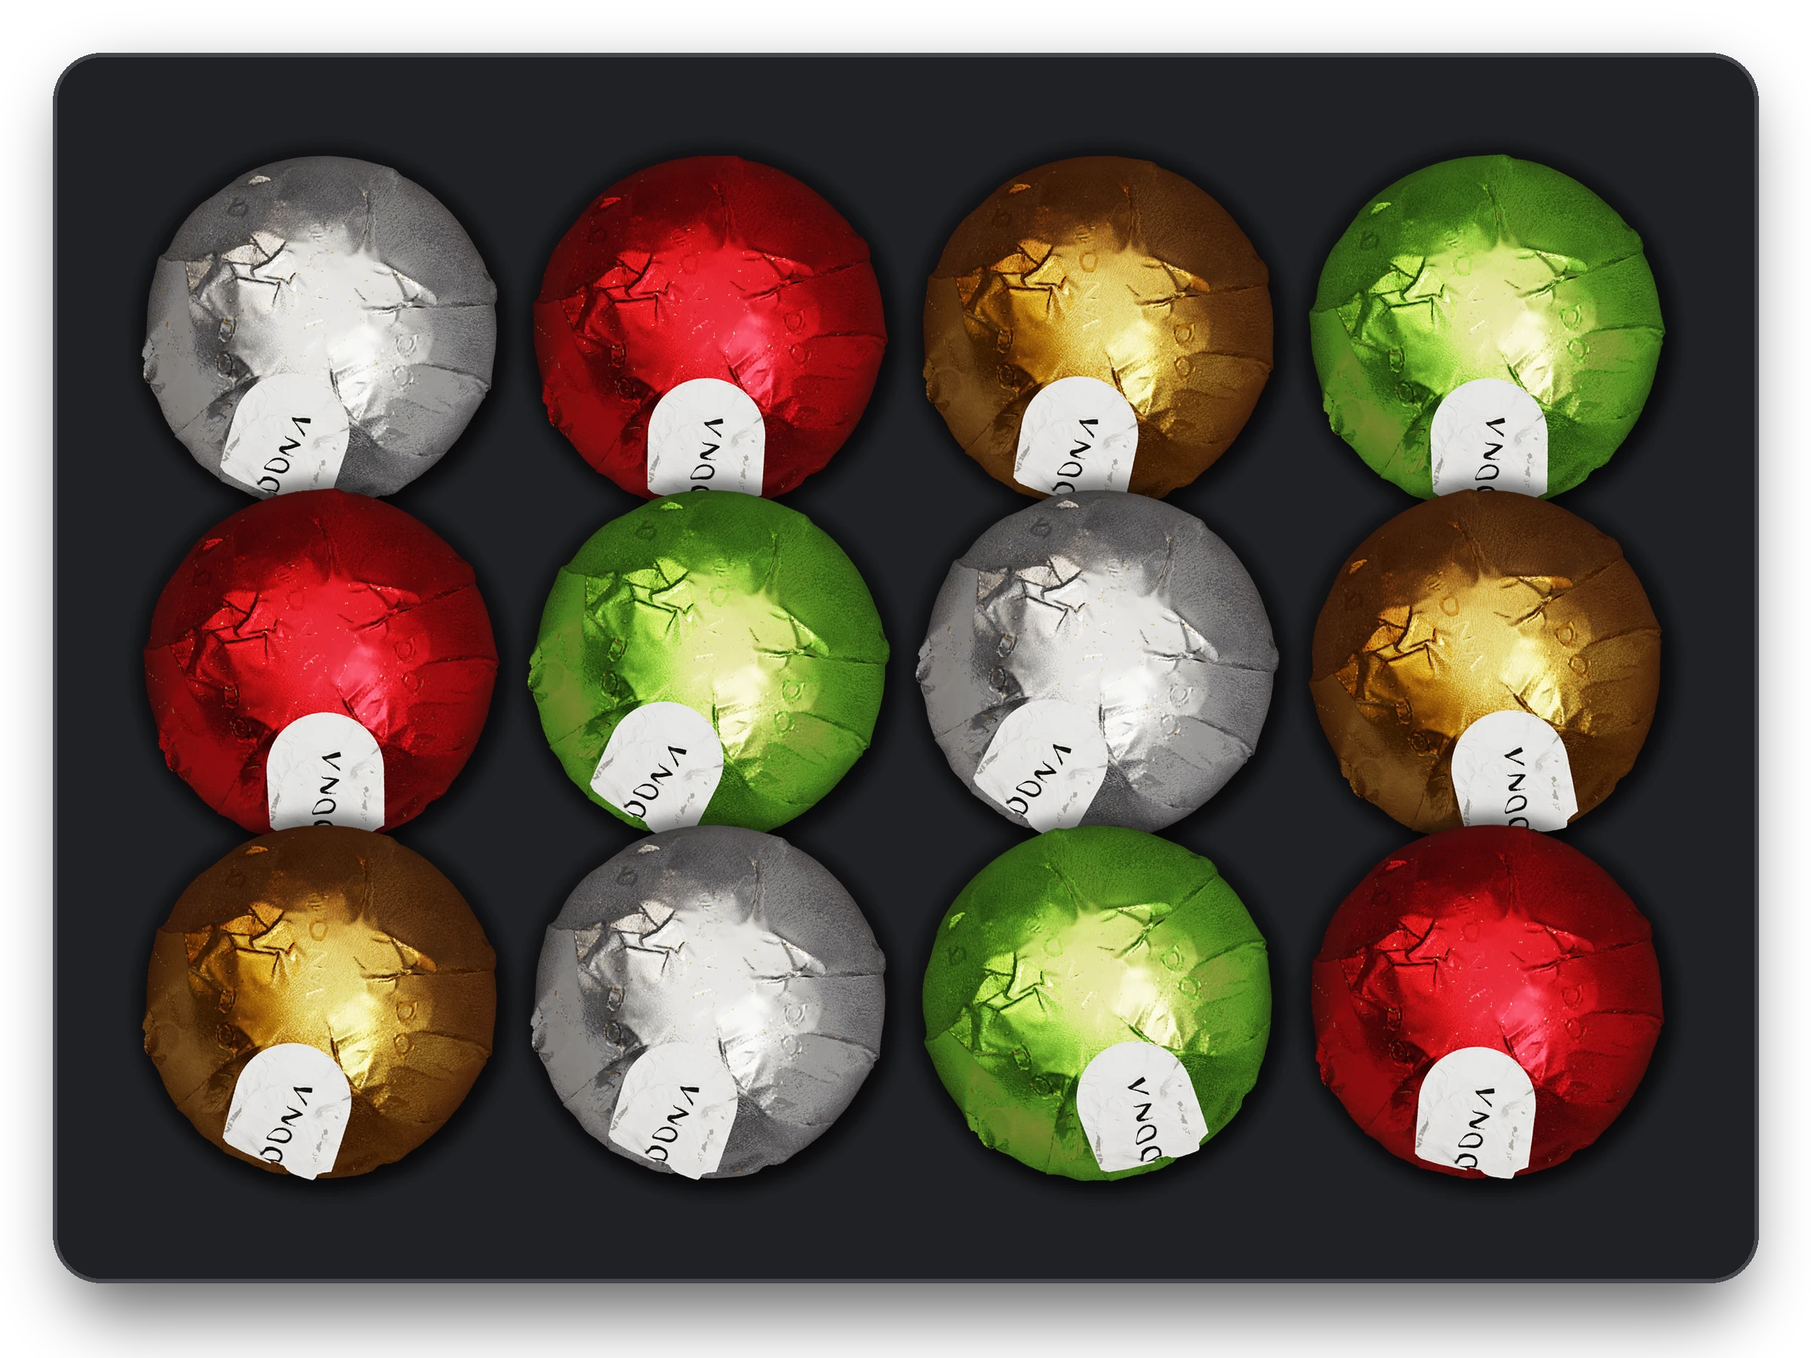
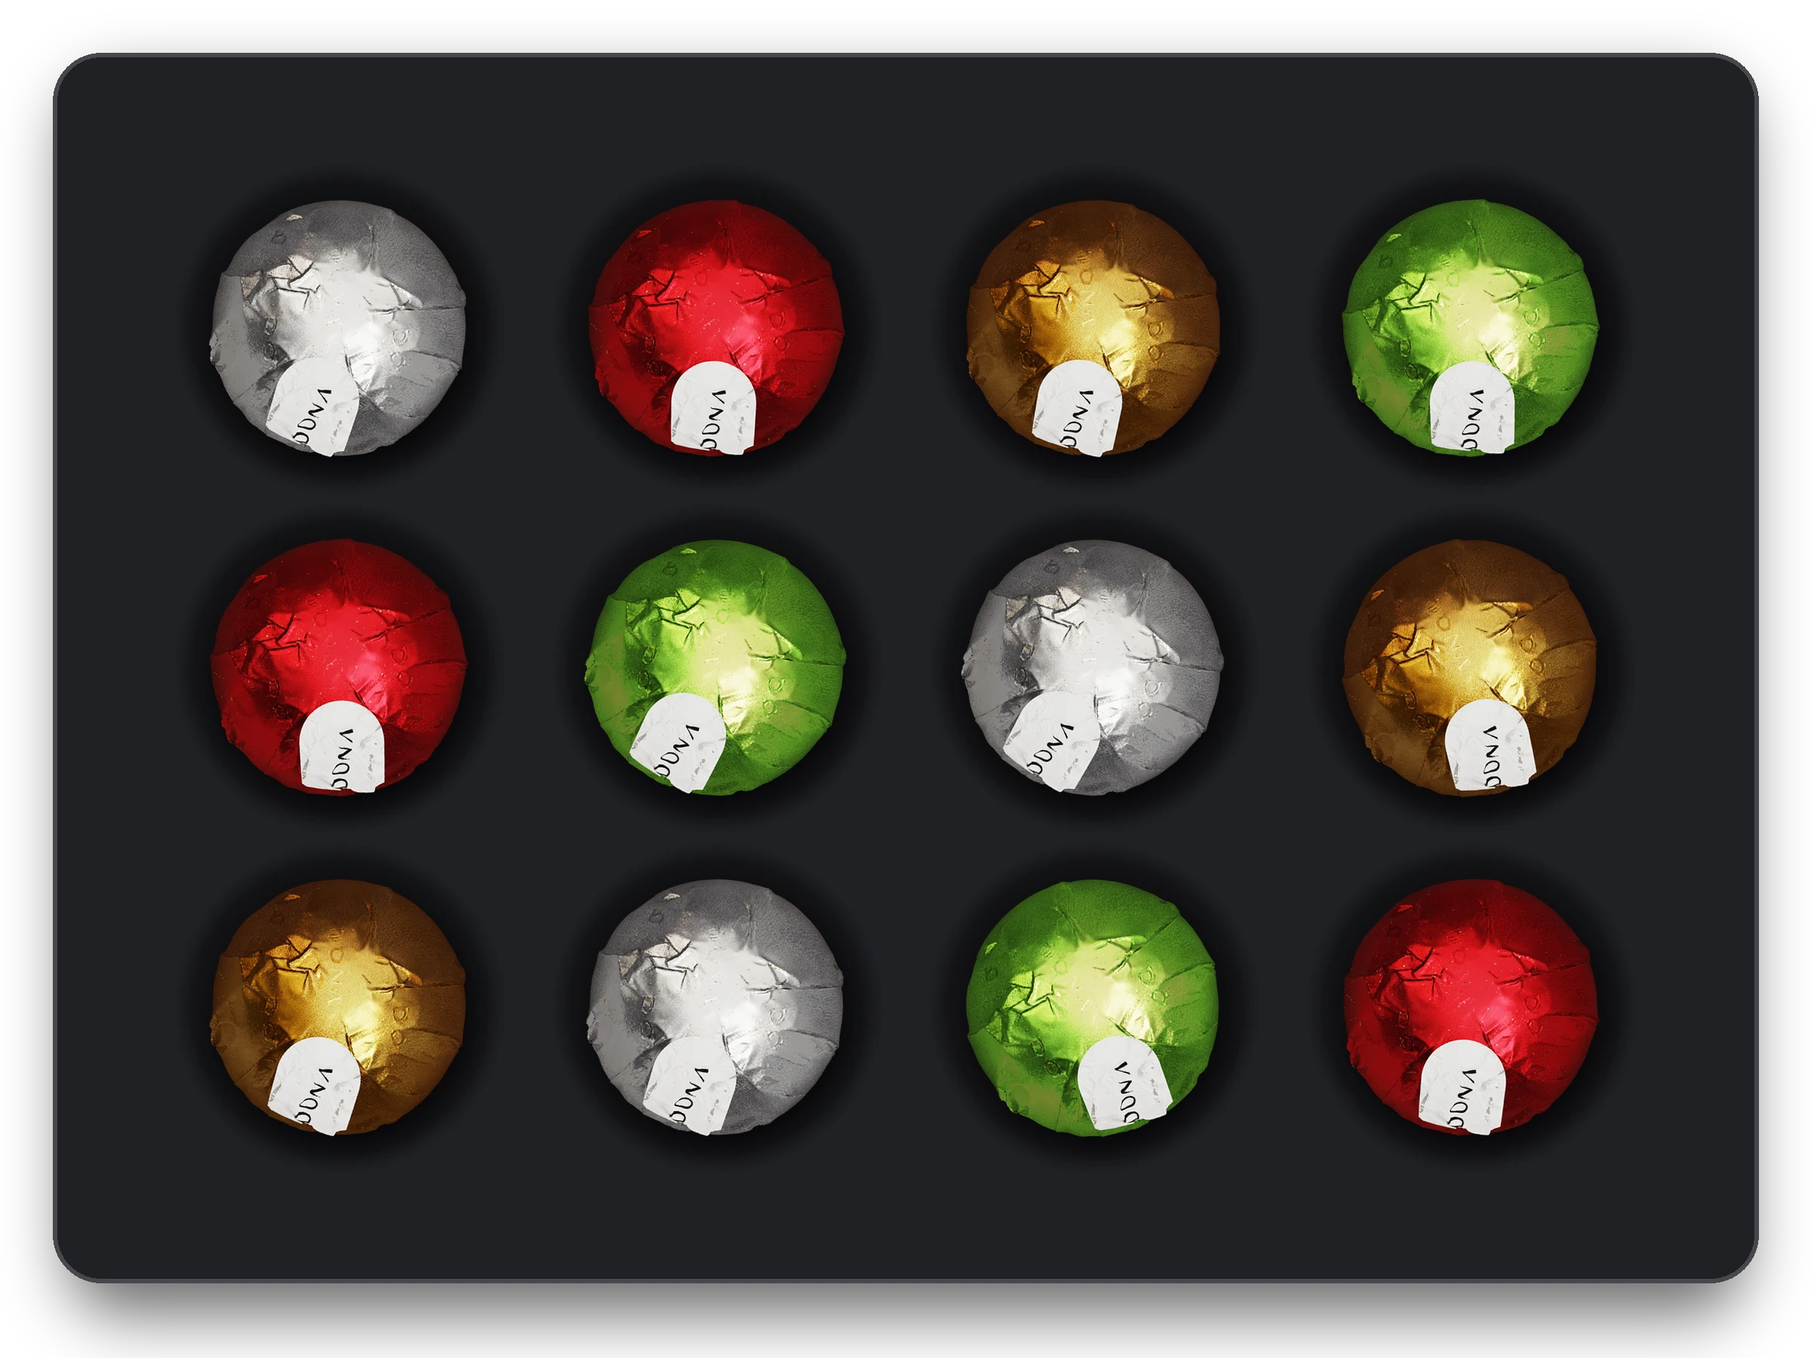
HE box with spacing, static candy stills at half size, tight LS box, closed 3D box in cart, quiet magnet click
Claude-Session: https://claude.ai/code/session_016Qy7A3d25X7EVsrP8gEGPN

diff --git a/high-end.html b/high-end.html
@@ -29,7 +29,7 @@
     <p class="sub" data-en="We created a box in which you feel every chocolate before you taste it." data-uz="Biz shunday quti yaratdik — unda har bir konfetni tatib ko‘rishingizdan oldin his qilasiz.">Мы создали коробку, в которой вы ощутите каждую конфету ещё до того, как её попробуете.</p>
     <p class="sub" data-en="We use physics: magnets hold every chocolate in its place, so that it reaches your table exactly as we first imagined it." data-uz="Biz fizikadan foydalanamiz: magnitlar har bir konfetni o‘z joyida ushlab turadi — u dasturxoningizga biz o‘ylagandek yetib boradi.">Мы используем физику: магниты удерживают каждую конфету на своём месте, чтобы она добралась до вашего стола именно такой, какой мы её задумали.</p>
    </div>
-   <div class="vis rv"><div class="magnet"><i></i><i></i><i></i><img src="/media/top-chamoq.webp?v=3" alt="" loading="lazy"></div></div>
+   <div class="vis rv"><div class="magnet"><i></i><i></i><i></i><img src="/media/top-chamoq.webp?v=4" alt="" loading="lazy"></div></div>
   </div>
  </section>
 
@@ -92,7 +92,7 @@ $('#candies').innerHTML=HE.map((c,i)=>`<article class="candy" id="${c.k}" style=
   </div>
  </div>
  <div class="views rv">
-  <div class="vstage"><div class="spin" data-k="${c.k}" data-size="l"></div><div class="cut3d hide" data-k="${c.k}"><img src="/media/cut-${c.k}.webp?v=3" alt="${c.name} — разрез" loading="lazy" decoding="async"></div></div>
+  <div class="vstage"><div class="spin"><img src="/media/still-${c.k}.webp?v=4" alt="${c.name}" loading="lazy" decoding="async"></div><div class="cut3d hide" data-k="${c.k}"><img src="/media/cut-${c.k}.webp?v=4" alt="${c.name} — разрез" loading="lazy" decoding="async"></div></div>
   <div class="vtabs" role="group" aria-label="${c.name}"><button type="button" data-v="foil" aria-pressed="true" data-en="In foil" data-uz="Folgada">В фольге</button><button type="button" data-v="cut" aria-pressed="false" data-en="Cut" data-uz="Kesim">В разрезе</button></div>
  </div>
 </article>`).join('');
@@ -100,14 +100,18 @@ $$('.candy').forEach(a=>{
  const k=a.id,spin=a.querySelector('.spin'),cut=a.querySelector('.cut3d');
  const show=v=>{const isCut=v==='cut';spin.classList.toggle('hide',isCut);cut.classList.toggle('hide',!isCut);
   a.querySelectorAll('.vtabs button').forEach(b=>b.setAttribute('aria-pressed',b.dataset.v===v));
-  if(spin._video){isCut?spin._video.pause():spin._video.play().catch(()=>{})}};
+  };
  a.querySelectorAll('[data-v]').forEach(b=>b.addEventListener('click',()=>{show(b.dataset.v);if(b.closest('.ctext'))a.querySelector('.vstage').scrollIntoView({behavior:'smooth',block:'center'})}));
 });
 
 /* ---------- mini shaking box ---------- */
 const PAT=['macadamia','walnuts','chamoq','pistachio','walnuts','pistachio','macadamia','chamoq','chamoq','macadamia','pistachio','walnuts'];
-$('#minibox .grid').innerHTML=PAT.map(k=>`<div class="slot full"><img src="/media/top-${k}.webp?v=3" alt="" loading="lazy"></div>`).join('');
+$('#minibox .grid').innerHTML=PAT.map(k=>`<div class="slot full"><img src="/media/top-${k}.webp?v=4" alt="" loading="lazy"></div>`).join('');
 
+/* ---------- quiet magnet click ---------- */
+let AC,MB;const clack=(d=0)=>{try{AC=AC||new(window.AudioContext||window.webkitAudioContext)();AC.resume();
+ const go=()=>{if(!MB)return;const n=AC.createBufferSource(),g=AC.createGain();n.buffer=MB;g.gain.value=.35;n.connect(g);g.connect(AC.destination);n.start(AC.currentTime+d)};
+ if(MB)go();else fetch('/assets/snd-magnet.mp3').then(r=>r.arrayBuffer()).then(a=>AC.decodeAudioData(a)).then(b=>{MB=b;go()}).catch(()=>{})}catch(e){}};
 /* ---------- box builder ---------- */
 const SIZE=12,KEY='dona-builder2';
 let st={col:'black',box:Array(SIZE).fill(null),seq:[]};
@@ -115,14 +119,14 @@ try{const s=JSON.parse(localStorage.getItem(KEY)||'null');if(s&&Array.isArray(s.
 const save=()=>{try{localStorage.setItem(KEY,JSON.stringify(st))}catch(e){}};
 const grid=$('#grid'),hbox=$('#hbox'),lid=$('#lid');
 grid.innerHTML=Array.from({length:SIZE},(_,i)=>`<button type="button" class="slot" data-i="${i}"><span class="num">${i+1}</span></button>`).join('');
-$('#flav').innerHTML=HE.map(c=>`<button type="button" class="fl" data-k="${c.k}" style="--c:${c.ui}"><span class="n"></span><img src="/media/top-${c.k}.webp?v=3" alt="" loading="lazy"><b>${c.name}</b></button>`).join('');
+$('#flav').innerHTML=HE.map(c=>`<button type="button" class="fl" data-k="${c.k}" style="--c:${c.ui}"><span class="n"></span><img src="/media/top-${c.k}.webp?v=4" alt="" loading="lazy"><b>${c.name}</b></button>`).join('');
 function render(anim){
  hbox.className='hbox '+st.col;lid.className='boxlid '+st.col;
  $$('.seg button').forEach(b=>b.setAttribute('aria-pressed',b.dataset.col===st.col));
  $$('.slot',grid).forEach((s,i)=>{const k=st.box[i];s.classList.toggle('full',!!k);const c=HE.find(x=>x.k===k);
   s.setAttribute('aria-label',k?T('Убрать ','Remove ','Olib tashlash: ')+c.name:T('Пустая ячейка ','Empty place ','Bo‘sh joy ')+(i+1));
   const img=s.querySelector('img');
-  if(k){if(!img||img.dataset.k!==k){img&&img.remove();s.insertAdjacentHTML('beforeend',`<img src="/media/top-${k}.webp?v=3" alt="" data-k="${k}" style="transform:rotate(${((i*73)%40)-20}deg)">`);
+  if(k){if(!img||img.dataset.k!==k){img&&img.remove();s.insertAdjacentHTML('beforeend',`<img src="/media/top-${k}.webp?v=4" alt="" data-k="${k}" style="transform:rotate(${((i*73)%40)-20}deg)">`);
     if(anim===i&&!D.reduce)s.querySelector('img').animate([{transform:'translateY(-40%) scale(1.25)',opacity:0},{transform:`rotate(${((i*73)%40)-20}deg)`,opacity:1}],{duration:420,easing:'cubic-bezier(.22,1,.36,1)'})}}
   else img&&img.remove()});
  const n=st.box.filter(Boolean).length;
@@ -130,7 +134,7 @@ function render(anim){
  $$('.fl').forEach(f=>{const c=st.box.filter(k=>k===f.dataset.k).length,el=f.querySelector('.n');el.textContent=c;el.classList.toggle('on',c>0)});
  $('#b-add').disabled=n!==SIZE;$('#b-add').textContent=n===SIZE?T('Добавить коробку в корзину','Add box to cart','Qutini savatga qo‘shish'):T(`Заполните коробку: ${n} из ${SIZE}`,`Fill the box: ${n} of ${SIZE}`,`Qutini to‘ldiring: ${SIZE} tadan ${n}`);save()}
 function add(k){const i=st.box.findIndex(x=>!x);if(i<0){$('#count').animate([{transform:'translateX(0)'},{transform:'translateX(-6px)'},{transform:'translateX(6px)'},{transform:'translateX(0)'}],{duration:260});return}
- st.box[i]=k;st.seq.push({a:'add',k,s:i});render(i)}
+ st.box[i]=k;st.seq.push({a:'add',k,s:i});render(i);clack(.26)}
 $$('.fl').forEach(f=>f.onclick=()=>add(f.dataset.k));
 $$('.slot',grid).forEach(s=>s.onclick=()=>{const i=+s.dataset.i;if(!st.box[i])return;st.seq.push({a:'del',k:st.box[i],s:i});st.box[i]=null;render()});
 $$('.seg button').forEach(b=>b.onclick=()=>{st.col=b.dataset.col;render()});

diff --git a/cart.html b/cart.html
@@ -49,10 +49,10 @@ const D=window.DONA,{$,$$,HE,T,BOXC,cart}=D;
 const NM=Object.fromEntries(HE.map(c=>[c.k,c.name]));
 try{const s=JSON.parse(localStorage.getItem('dona-contact2')||'{}');$('#c-name').value=s.name||'';$('#c-ct').value=s.ct||'';$('#c-addr').value=s.addr||''}catch(e){}
 const WALL={white:['#e9e3d8','#d9d2c4','#cfc8b8'],black:['#2a2c31','#1c1d20','#141518'],red:['#d8503c','#c93a27','#a82d1d']};
-function box3d(it){const w=WALL[it.col]||WALL.black,bg=it.col==='white'?'#f4efe7':it.col==='red'?'#c93a27':'#1c1d20';
- return `<div class="sc" data-3d><div class="cb" style="--bg:${bg};--w1:${w[0]};--w2:${w[1]};--w3:${w[2]}">
+function box3d(it){const w=WALL[it.col]||WALL.black,top=it.col==='white'?'#f4efe7':it.col==='red'?'#c93a27':'#1c1d20',ink=it.col==='white'?'#9a5a2c':it.col==='red'?'#fff4ea':'#d9a46c';
+ return `<div class="sc" data-3d><div class="cb" style="--bg:${top};--w1:${w[0]};--w2:${w[1]};--w3:${w[2]};--ink:${ink}">
   <div class="sh"></div>
-  <div class="fl2">${it.box.map((k,i)=>k?`<img src="/media/top-${k}.webp?v=3" alt="" style="transform:translateZ(3px) rotate(${((i*73)%40)-20}deg)">`:'<span></span>').join('')}</div>
+  <div class="lidtop ${it.col}"><div class="lm"></div><p>MOMENTS TO SHARE<br>FLAVORS TO REMEMBER</p></div>
   <div class="wl bk"></div><div class="wl fr"></div><div class="wl lf"></div><div class="wl rt"></div>
  </div><p class="hint3">${T('Потяните, чтобы повернуть','Drag to turn','Aylantirish uchun torting')}</p></div>`}
 function init3d(){document.querySelectorAll('[data-3d]').forEach(sc=>{const cb=sc.querySelector('.cb');if(sc._on)return;sc._on=1;
@@ -69,7 +69,7 @@ function draw(){
    return `<div class="citem he" data-id="${it.id}">${box3d(it)}
     <div><h3>HIGH-END · ${n}/12</h3>${n<12?`<p class="warn">${T('Коробка не заполнена: нужно ровно 12 конфет.','The box is not full: exactly 12 candies are needed.','Quti to‘lmagan: aynan 12 ta konfet kerak.')} <a class="link" href="/high-end#build">${T('Дополнить','Complete it','To‘ldirish')}</a></p>`:''}<p>${T('Коробка','Box','Quti')}: ${T(...col)}</p><p>${Object.entries(cnt).map(([k,v])=>NM[k]+' × '+v).join(', ')}</p>${it.name?`<p>${T('Письмо для','Letter for','Maktub')}: ${it.name.replace(/[<>&]/g,'')}</p>`:''}<button class="x" type="button" data-rm>${T('Убрать','Remove','Olib tashlash')}</button></div>
     <div class="qty"><button type="button" data-q="-1">−</button><span>${it.qty}</span><button type="button" data-q="1">+</button></div></div>`}
-  return `<div class="citem" data-id="${it.id}"><div class="th" style="background:#f1efea"><img src="/media/ls-box.webp?v=3" alt=""></div>
+  return `<div class="citem" data-id="${it.id}"><div class="th" style="background:#f1efea"><img src="/media/ls-box.webp?v=4" alt=""></div>
    <div><h3>LIGHT SIDE OF THE MOON</h3><p>${T('Белая коробка: тёмная карамель, солёная карамель, макадамия','White box: dark caramel, salted caramel, macadamia','Oq quti: qora karamel, tuzli karamel, makadamiya')}</p><button class="x" type="button" data-rm>${T('Убрать','Remove','Olib tashlash')}</button></div>
    <div class="qty"><button type="button" data-q="-1">−</button><span>${it.qty}</span><button type="button" data-q="1">+</button></div></div>`}).join('');
  init3d();

diff --git a/index.html b/index.html
@@ -10,7 +10,7 @@
 <link rel="preconnect" href="https://fonts.googleapis.com"><link rel="preconnect" href="https://fonts.gstatic.com" crossorigin>
 <link href="https://fonts.googleapis.com/css2?family=Cormorant+Garamond:wght@400;500&family=Inter+Tight:wght@300;400;500;600;700&display=swap" rel="stylesheet">
 <link rel="stylesheet" href="/css/site.css">
-<link rel="preload" as="image" href="/media/he-box.webp?v=3">
+<link rel="preload" as="image" href="/media/he-box.webp?v=4">
 </head>
 <body data-page="home">
 <main>
@@ -24,7 +24,7 @@
  <section class="wrap lines-sec" id="lines">
    <div class="lines">
     <a class="line he rv" href="/high-end">
-     <div class="pic"><img src="/media/he-box.webp?v=3" width="2400" height="1800" alt="Коробка HIGH-END с двенадцатью конфетами в фольге четырёх цветов" data-en-alt="HIGH-END box with twelve candies in four foil colours"></div>
+     <div class="pic"><img src="/media/he-box.webp?v=4" width="2400" height="1800" alt="Коробка HIGH-END с двенадцатью конфетами в фольге четырёх цветов" data-en-alt="HIGH-END box with twelve candies in four foil colours"></div>
      <div class="txt">
       <h3>HIGH-END</h3>
       <p data-en="Four fillings, each in its own colour of foil. Build your own box of 12 and see every candy cut in 3D." data-uz="To‘rtta ichlik, har biri o‘z rangli folgasida. 12 talik qutingizni yig‘ing va har bir konfetni kesimda ko‘ring.">Четыре начинки — каждая в фольге своего цвета. Соберите свою коробку из 12 конфет и рассмотрите каждую в разрезе.</p>
@@ -32,7 +32,7 @@
      </div>
     </a>
     <a class="line lsm rv" href="/light-side">
-     <div class="pic"><img src="/media/ls-box.webp?v=3" width="3200" height="2080" alt="Белая коробка LIGHT SIDE OF THE MOON" data-en-alt="White LIGHT SIDE OF THE MOON box"></div>
+     <div class="pic"><img src="/media/ls-box.webp?v=4" width="3468" height="2118" alt="Белая коробка LIGHT SIDE OF THE MOON" data-en-alt="White LIGHT SIDE OF THE MOON box"></div>
      <div class="txt">
       <h3>LIGHT SIDE OF THE MOON</h3>
       <p data-en="The new collection: three new flavours in one white box — round, square and a bar, each in its own foil." data-uz="Yangi to‘plam: bitta oq qutida uchta yangi ta’m — dumaloq, kvadrat va batoncha, har biri o‘z folgasida.">Новая коллекция: три новых вкуса в одной белой коробке — круглая, квадратная и батончик, каждая в своей фольге.</p>

diff --git a/light-side.html b/light-side.html
@@ -10,7 +10,7 @@
 <link rel="preconnect" href="https://fonts.googleapis.com"><link rel="preconnect" href="https://fonts.gstatic.com" crossorigin>
 <link href="https://fonts.googleapis.com/css2?family=Cormorant+Garamond:wght@400;500&family=Inter+Tight:wght@300;400;500;600;700&display=swap" rel="stylesheet">
 <link rel="stylesheet" href="/css/site.css">
-<link rel="preload" as="image" href="/media/ls-box.webp?v=3">
+<link rel="preload" as="image" href="/media/ls-box.webp?v=4">
 </head>
 <body data-page="lsm">
 <main>
@@ -23,7 +23,7 @@
  <section class="wrap">
   <figure class="lsbox rv" style="margin-left:0;margin-right:0">
    <div class="lid"><img src="/assets/logo-word-dark.png" alt="DONA"><p>MOMENTS TO SHARE<br>FLAVORS TO REMEMBER</p></div>
-   <div class="tray"><img src="/media/ls-box.webp?v=3" width="3200" height="2080" alt="Коробка LIGHT SIDE OF THE MOON с конфетами: квадратные в золотой фольге, круглые в фиолетовой и батончики в серебряной" data-en-alt="LIGHT SIDE OF THE MOON box with gold square, violet round and silver bar candies"></div>
+   <div class="tray"><img src="/media/ls-box.webp?v=4" width="3468" height="2118" alt="Коробка LIGHT SIDE OF THE MOON с конфетами: квадратные в золотой фольге, круглые в фиолетовой и батончики в серебряной" data-en-alt="LIGHT SIDE OF THE MOON box with gold square, violet round and silver bar candies"></div>
   </figure>
   <div class="buy rv">
    <div class="qty" role="group" aria-label="Количество"><button type="button" id="qm">−</button><span id="qv">1</span><button type="button" id="qp">+</button></div>
@@ -51,7 +51,7 @@ const LS=[
  {k:'macadamia_bar',c:'#cfd3d8',ru:['Макадамия','Батончик · серебряная фольга'],en:['Macadamia','Bar · silver foil'],uz:['Makadamiya','Batoncha · kumush folga']}
 ];
 $('#lsrow').innerHTML=LS.map(x=>`<div class="lsc rv" style="--c:${x.c}" tabindex="0">
- <div class="pic"><img class="top" src="/media/ls-top-${x.k}.webp?v=3" alt="" loading="lazy"><img class="side" src="/media/ls-side-${x.k}.webp?v=3" alt="" loading="lazy"></div>
+ <div class="pic"><img class="top" src="/media/ls-top-${x.k}.webp?v=4" alt="" loading="lazy"><img class="side" src="/media/ls-side-${x.k}.webp?v=4" alt="" loading="lazy"></div>
  <h3 data-en="${x.en[0]}" data-uz="${x.uz[0]}">${x.ru[0]}</h3>
  <p data-en="${x.en[1]}" data-uz="${x.uz[1]}">${x.ru[1]}</p>
 </div>`).join('');

diff --git a/css/site.css b/css/site.css
@@ -247,10 +247,11 @@ footer .credit{flex-basis:100%;margin:0;font-size:12px}
 .line .pic{aspect-ratio:4/3;padding:14px 14px 0}
 .line .pic img{width:100%;height:100%;max-height:none;object-fit:contain}
 .line.lsm .pic img{border-radius:10px;filter:drop-shadow(0 18px 24px rgba(0,0,0,.5))}
-.views{width:min(100%,400px);margin-inline:auto}
+.views{width:min(100%,240px);margin-inline:auto}
 .cut3d img{position:absolute;inset:7% 5%;width:90%;height:86%;object-fit:contain;filter:drop-shadow(0 18px 20px rgba(0,0,0,.55))}
 .lsc .pic{width:58%;margin:0 auto}
-@media(max-width:820px){.lsc .pic{width:48%}.views{width:min(100%,340px)}}
+@media(max-width:820px){.lsc .pic{width:48%}.views{width:min(100%,200px)}}
+.vstage{border-radius:20px}.vtabs button{padding:7px 14px;font-size:13px}
 .citem.he{grid-template-columns:240px minmax(0,1fr) auto}
 .citem .warn{color:#ff9f82}
 .sc{position:relative;height:200px;perspective:820px;touch-action:none;cursor:grab;display:grid;place-items:center;border-radius:14px;background:radial-gradient(ellipse at 50% 60%,rgba(255,220,180,.07),transparent 70%)}
@@ -267,3 +268,9 @@ footer .credit{flex-basis:100%;margin:0;font-size:12px}
 .cb .wl.rt{width:135px;transform:translateX(180px) rotateZ(90deg) rotateX(90deg);background:var(--w2)}
 .hint3{position:absolute;left:0;right:0;bottom:0;margin:0;text-align:center;font-size:11px;color:var(--mute);pointer-events:none}
 @media(max-width:700px){.citem.he{grid-template-columns:1fr}.citem.he .qty{justify-self:start}}
+/* closed box in cart */
+.cb .lidtop{position:absolute;inset:0;background:var(--bg);transform:translateZ(26px);display:flex;flex-direction:column;align-items:center;justify-content:center;gap:8px;box-shadow:inset 0 0 0 1px rgba(255,255,255,.08)}
+.cb .lidtop .lm{width:58%;aspect-ratio:1442/237;background:linear-gradient(100deg,#8e4a22,#d9915a 35%,#ffd9a8 50%,#c9773d 65%,#8e4a22);-webkit-mask:url(../assets/logo-word.webp) center/contain no-repeat;mask:url(../assets/logo-word.webp) center/contain no-repeat}
+.cb .lidtop.red .lm{background:#fff4ea}.cb .lidtop.white .lm{background:linear-gradient(100deg,#7a3c1a,#b66d3a 40%,#e0a46c 50%,#a85d2c 60%,#7a3c1a)}
+.cb .lidtop p{margin:0;font-size:5.5px;letter-spacing:.18em;line-height:1.5;text-align:center;color:var(--ink)}
+.cb .wl{height:26px}
